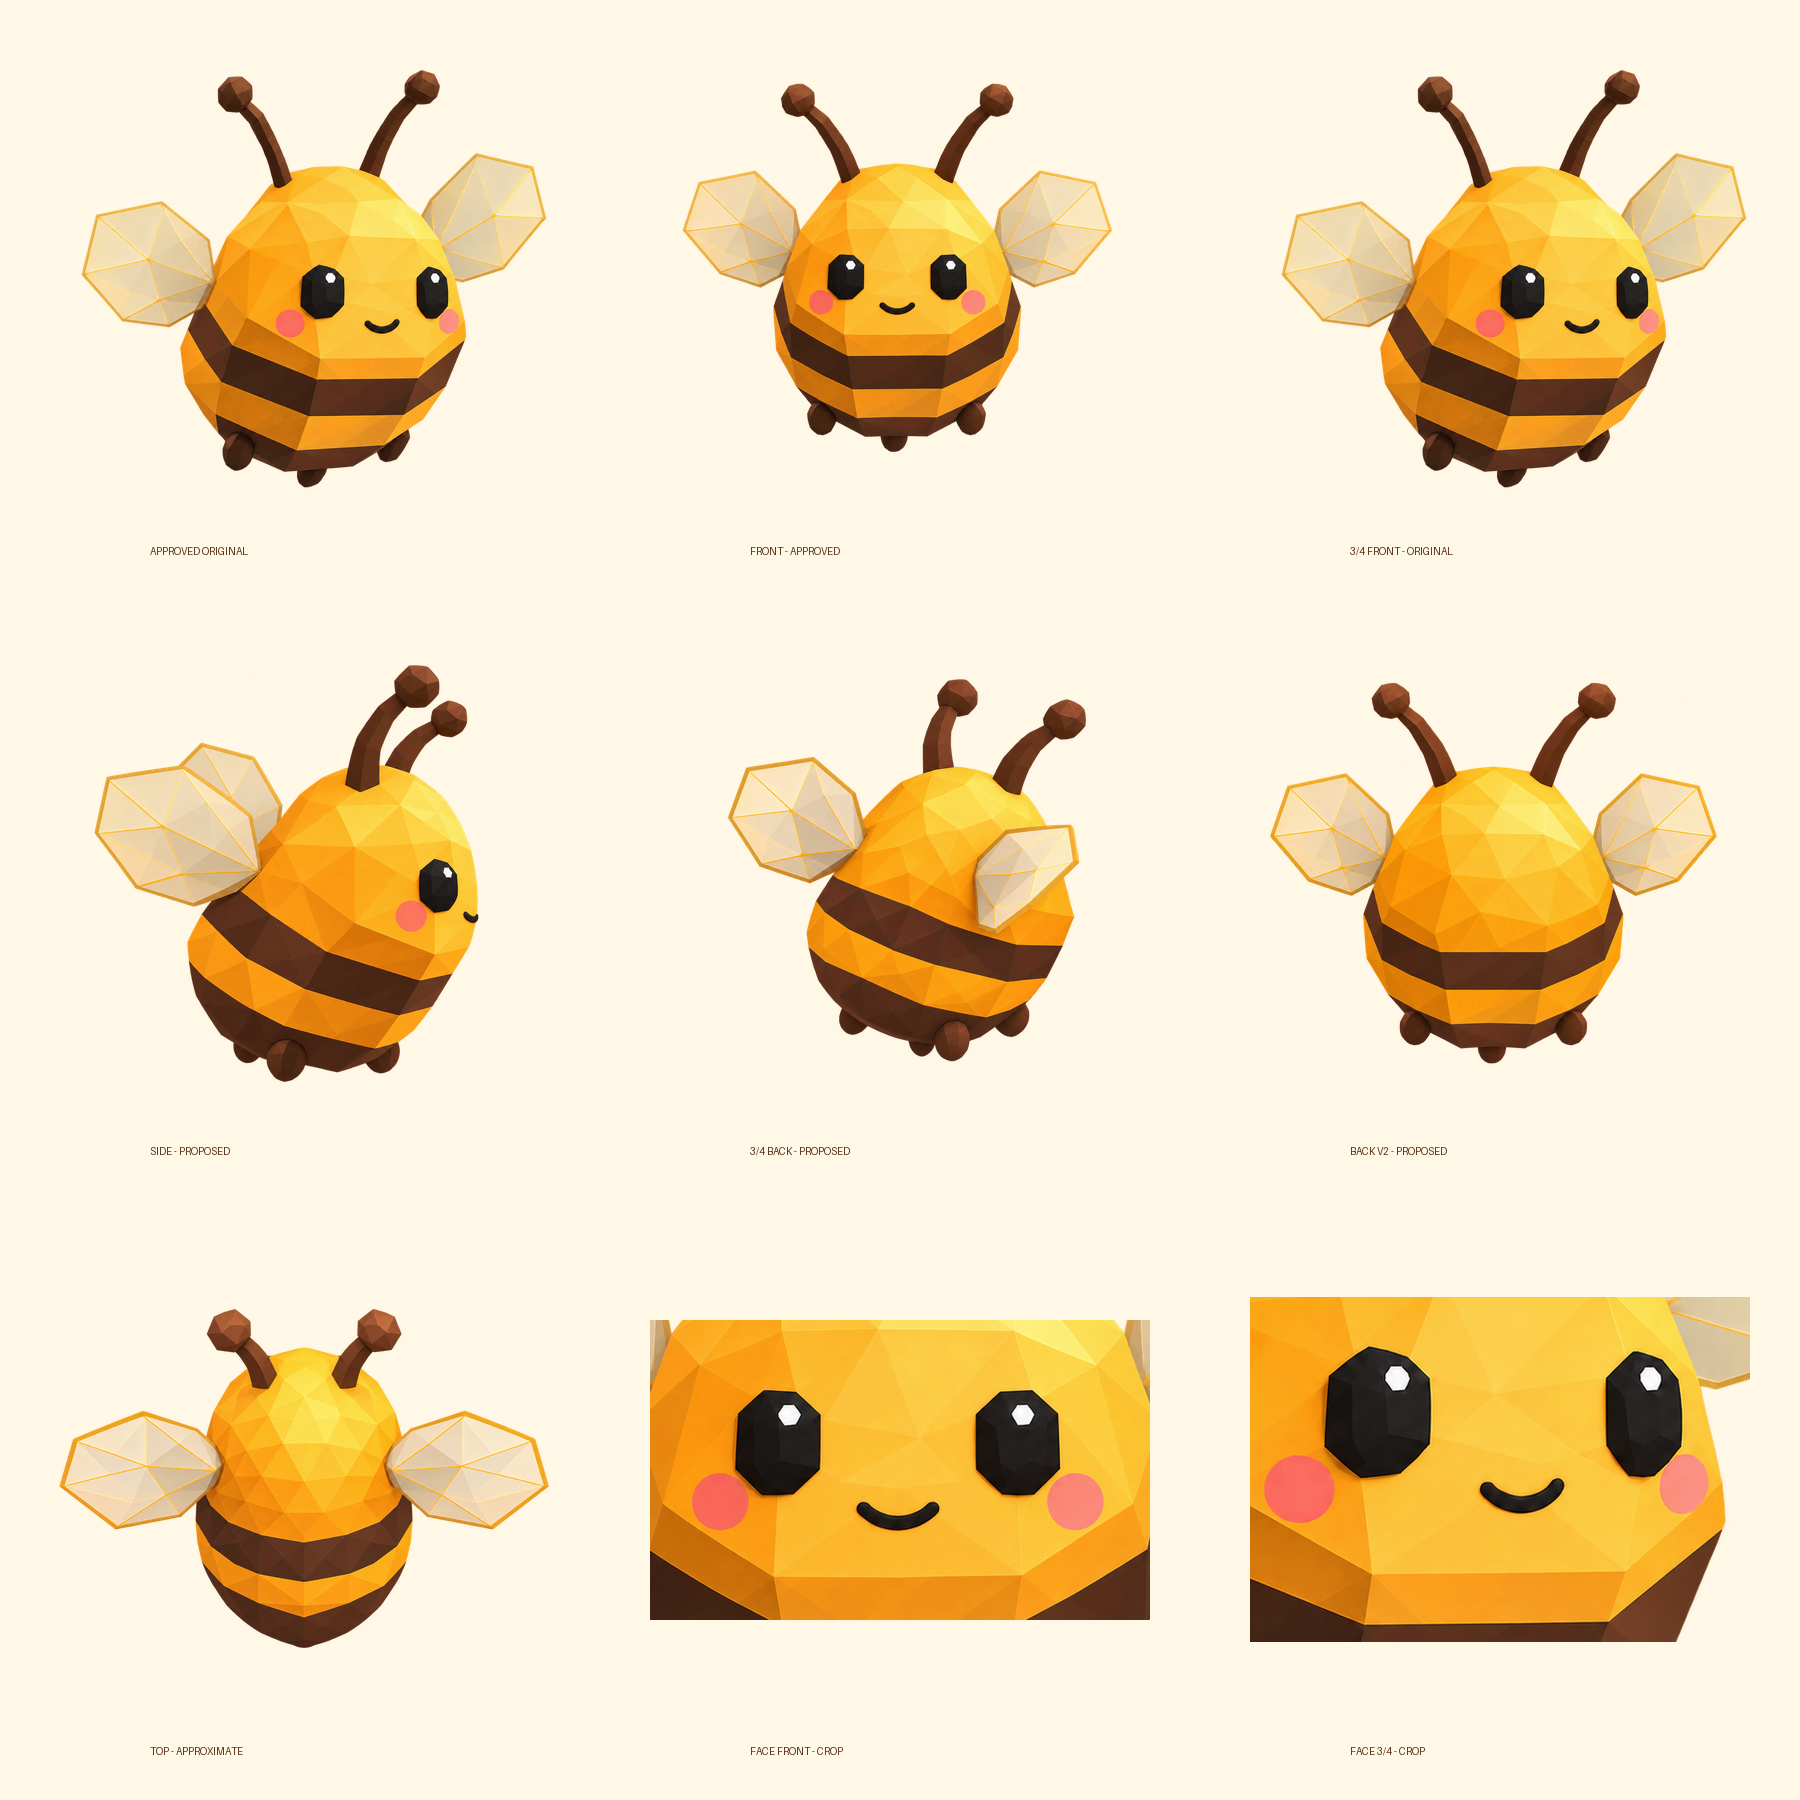
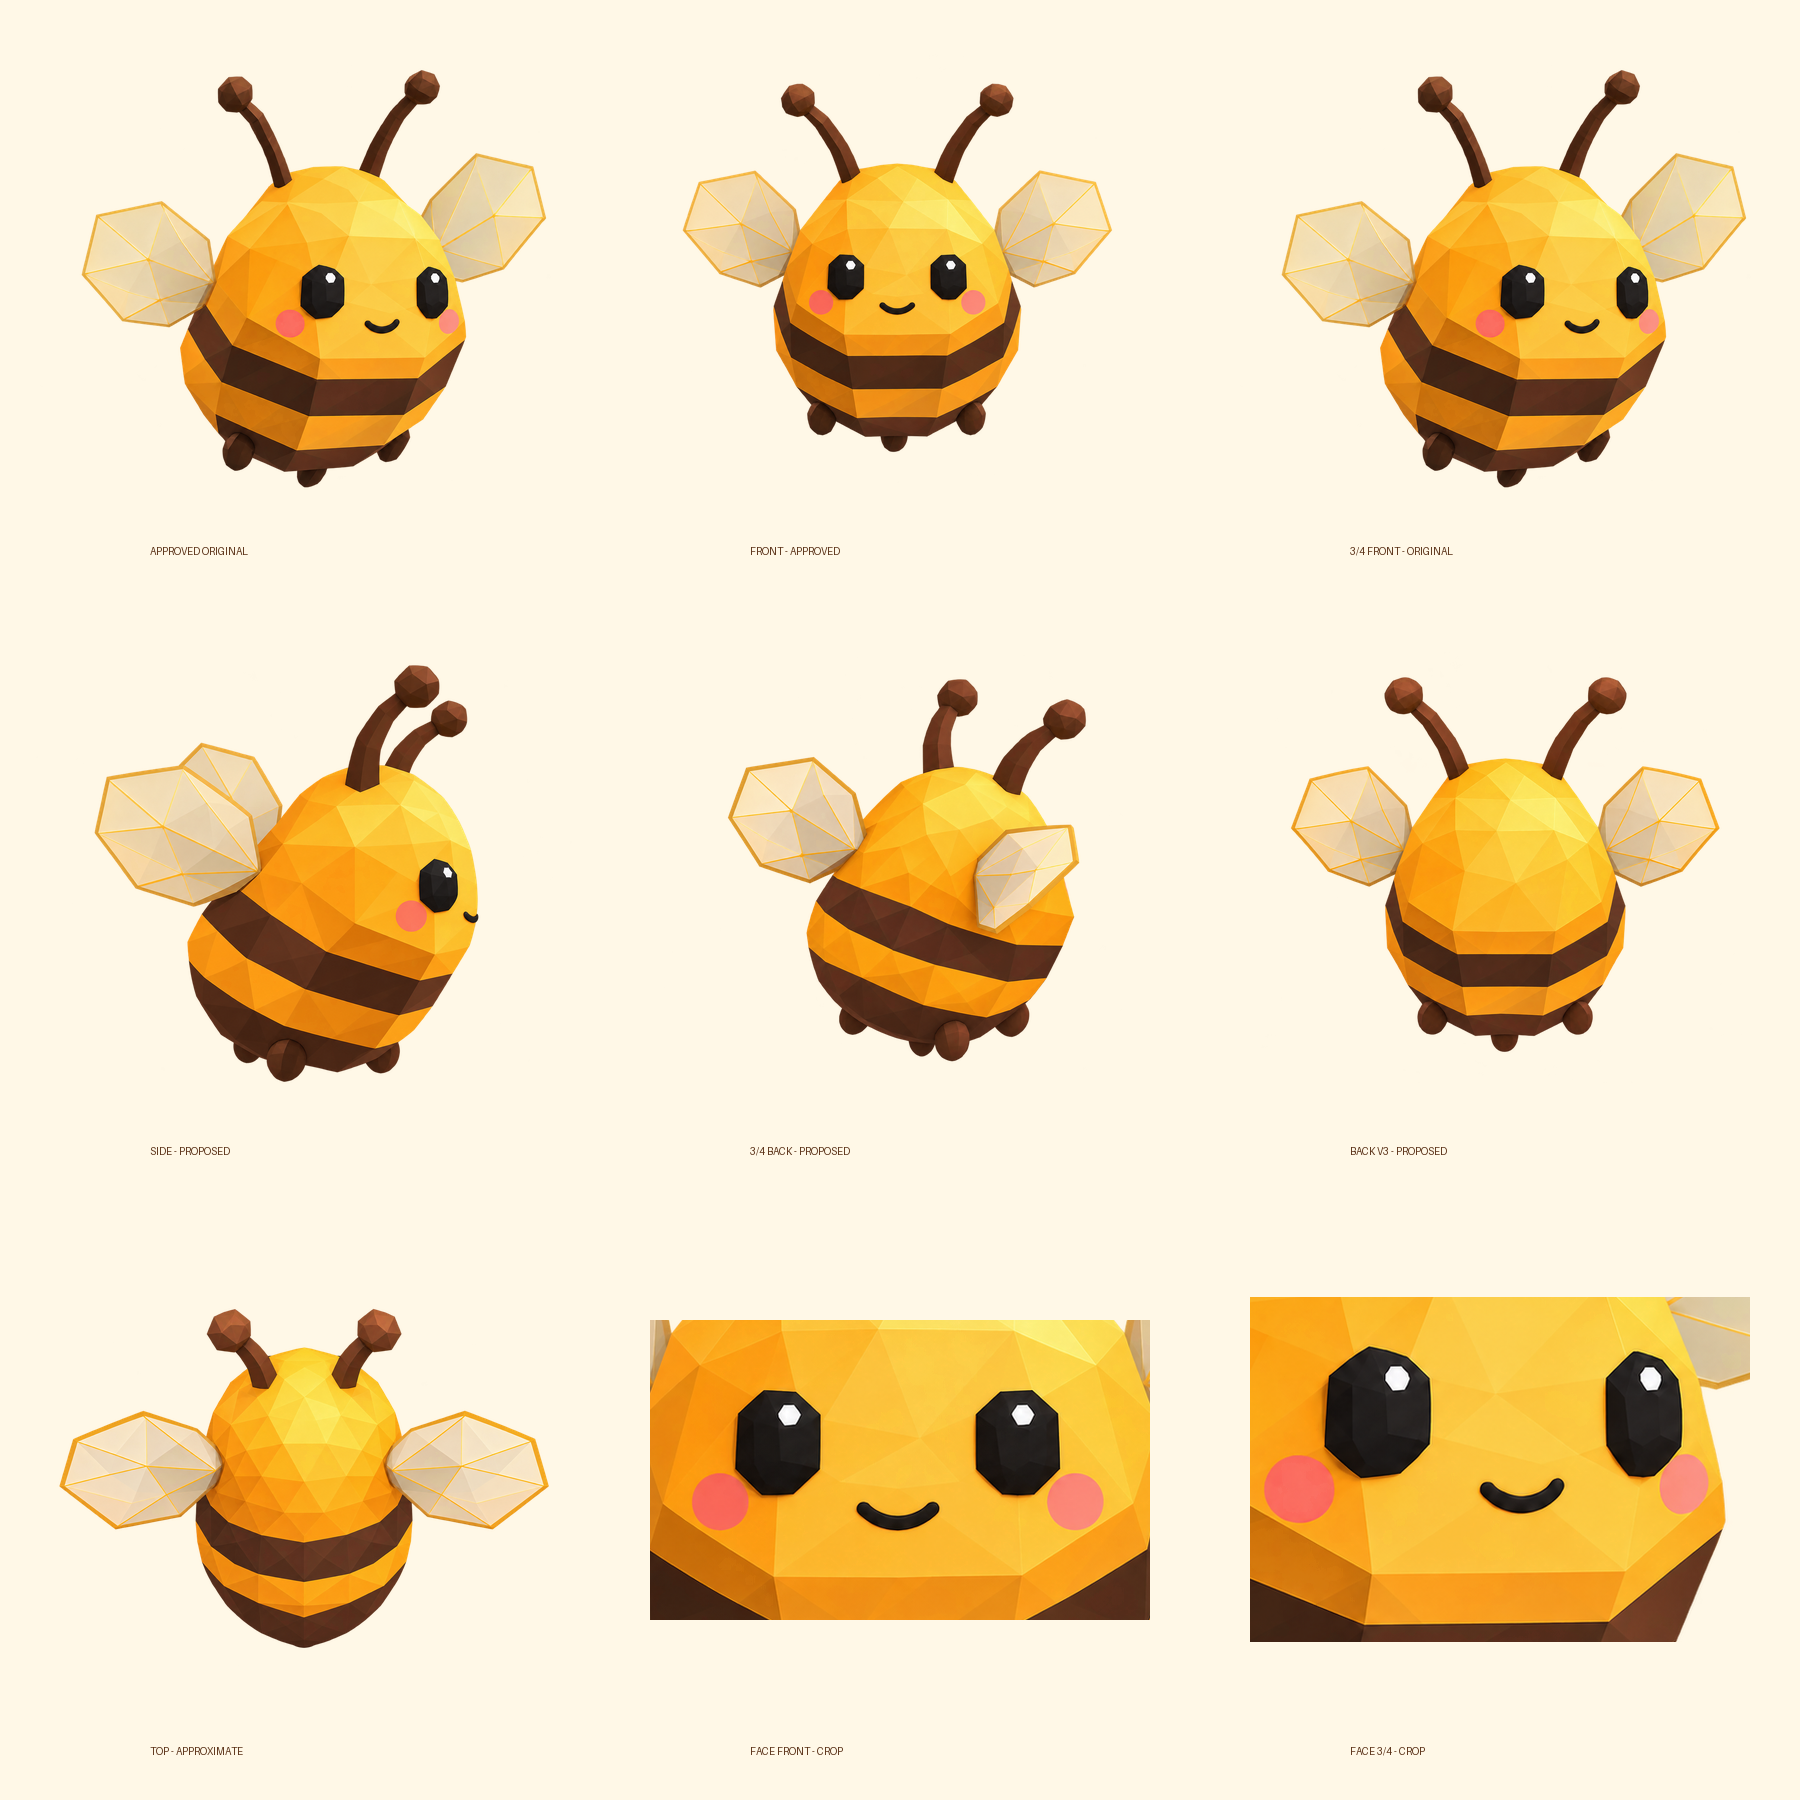
fix(art): narrow rear silhouette and align stripe contour with front

Changed region(s): [[0.6844, 0.3733, 0.9644, 0.5911], [0.8711, 0.3733, 0.9022, 0.4044]]

diff --git a/design/3d/turnaround/README.ru.md b/design/3d/turnaround/README.ru.md
@@ -37,3 +37,7 @@ design/3d/zhuzha отсутствует в текущей ветке. Игра, 
 
 ## Коррекция пропорций вида сзади
 Владелец указал, что верны пропорции front, а back слишком широкий. Back повторно сгенерирован напрямую по front; silhouette, размеры крыльев/усиков и высота полос заданы по front. Старый back сохранён в archive-new-views. compare-front-back.png использует одинаковое уменьшение целых холстов 1366×1151, без индивидуального подгона масштаба: это позволяет видеть реальную разницу. Полного пиксельного совпадения генерация не обеспечивает. Новый back ожидает оценки, rear-q3/top пока НЕ исправлены по этой новой версии.
+
+
+### Back revision 3
+По повторному замечанию владельца спина дополнительно сужена, граница верхней коричневой полосы повторяет более низкий изгиб front. Два вызова image_gen: исправление полосы напрямую по front, затем локальное сужение корпуса. Точные промпты back-proportions-v3-prompts.json. Передний вид без изменений; новый задний не утверждён. Измерения ширины корпуса на y700/800/900 (alpha>128): {'front': {700: 634, 800: 612, 900: 491}, 'back': {700: 616, 800: 589, 900: 471}}. Это несколько контрольных срезов, не доказательство совпадения всей формы.
